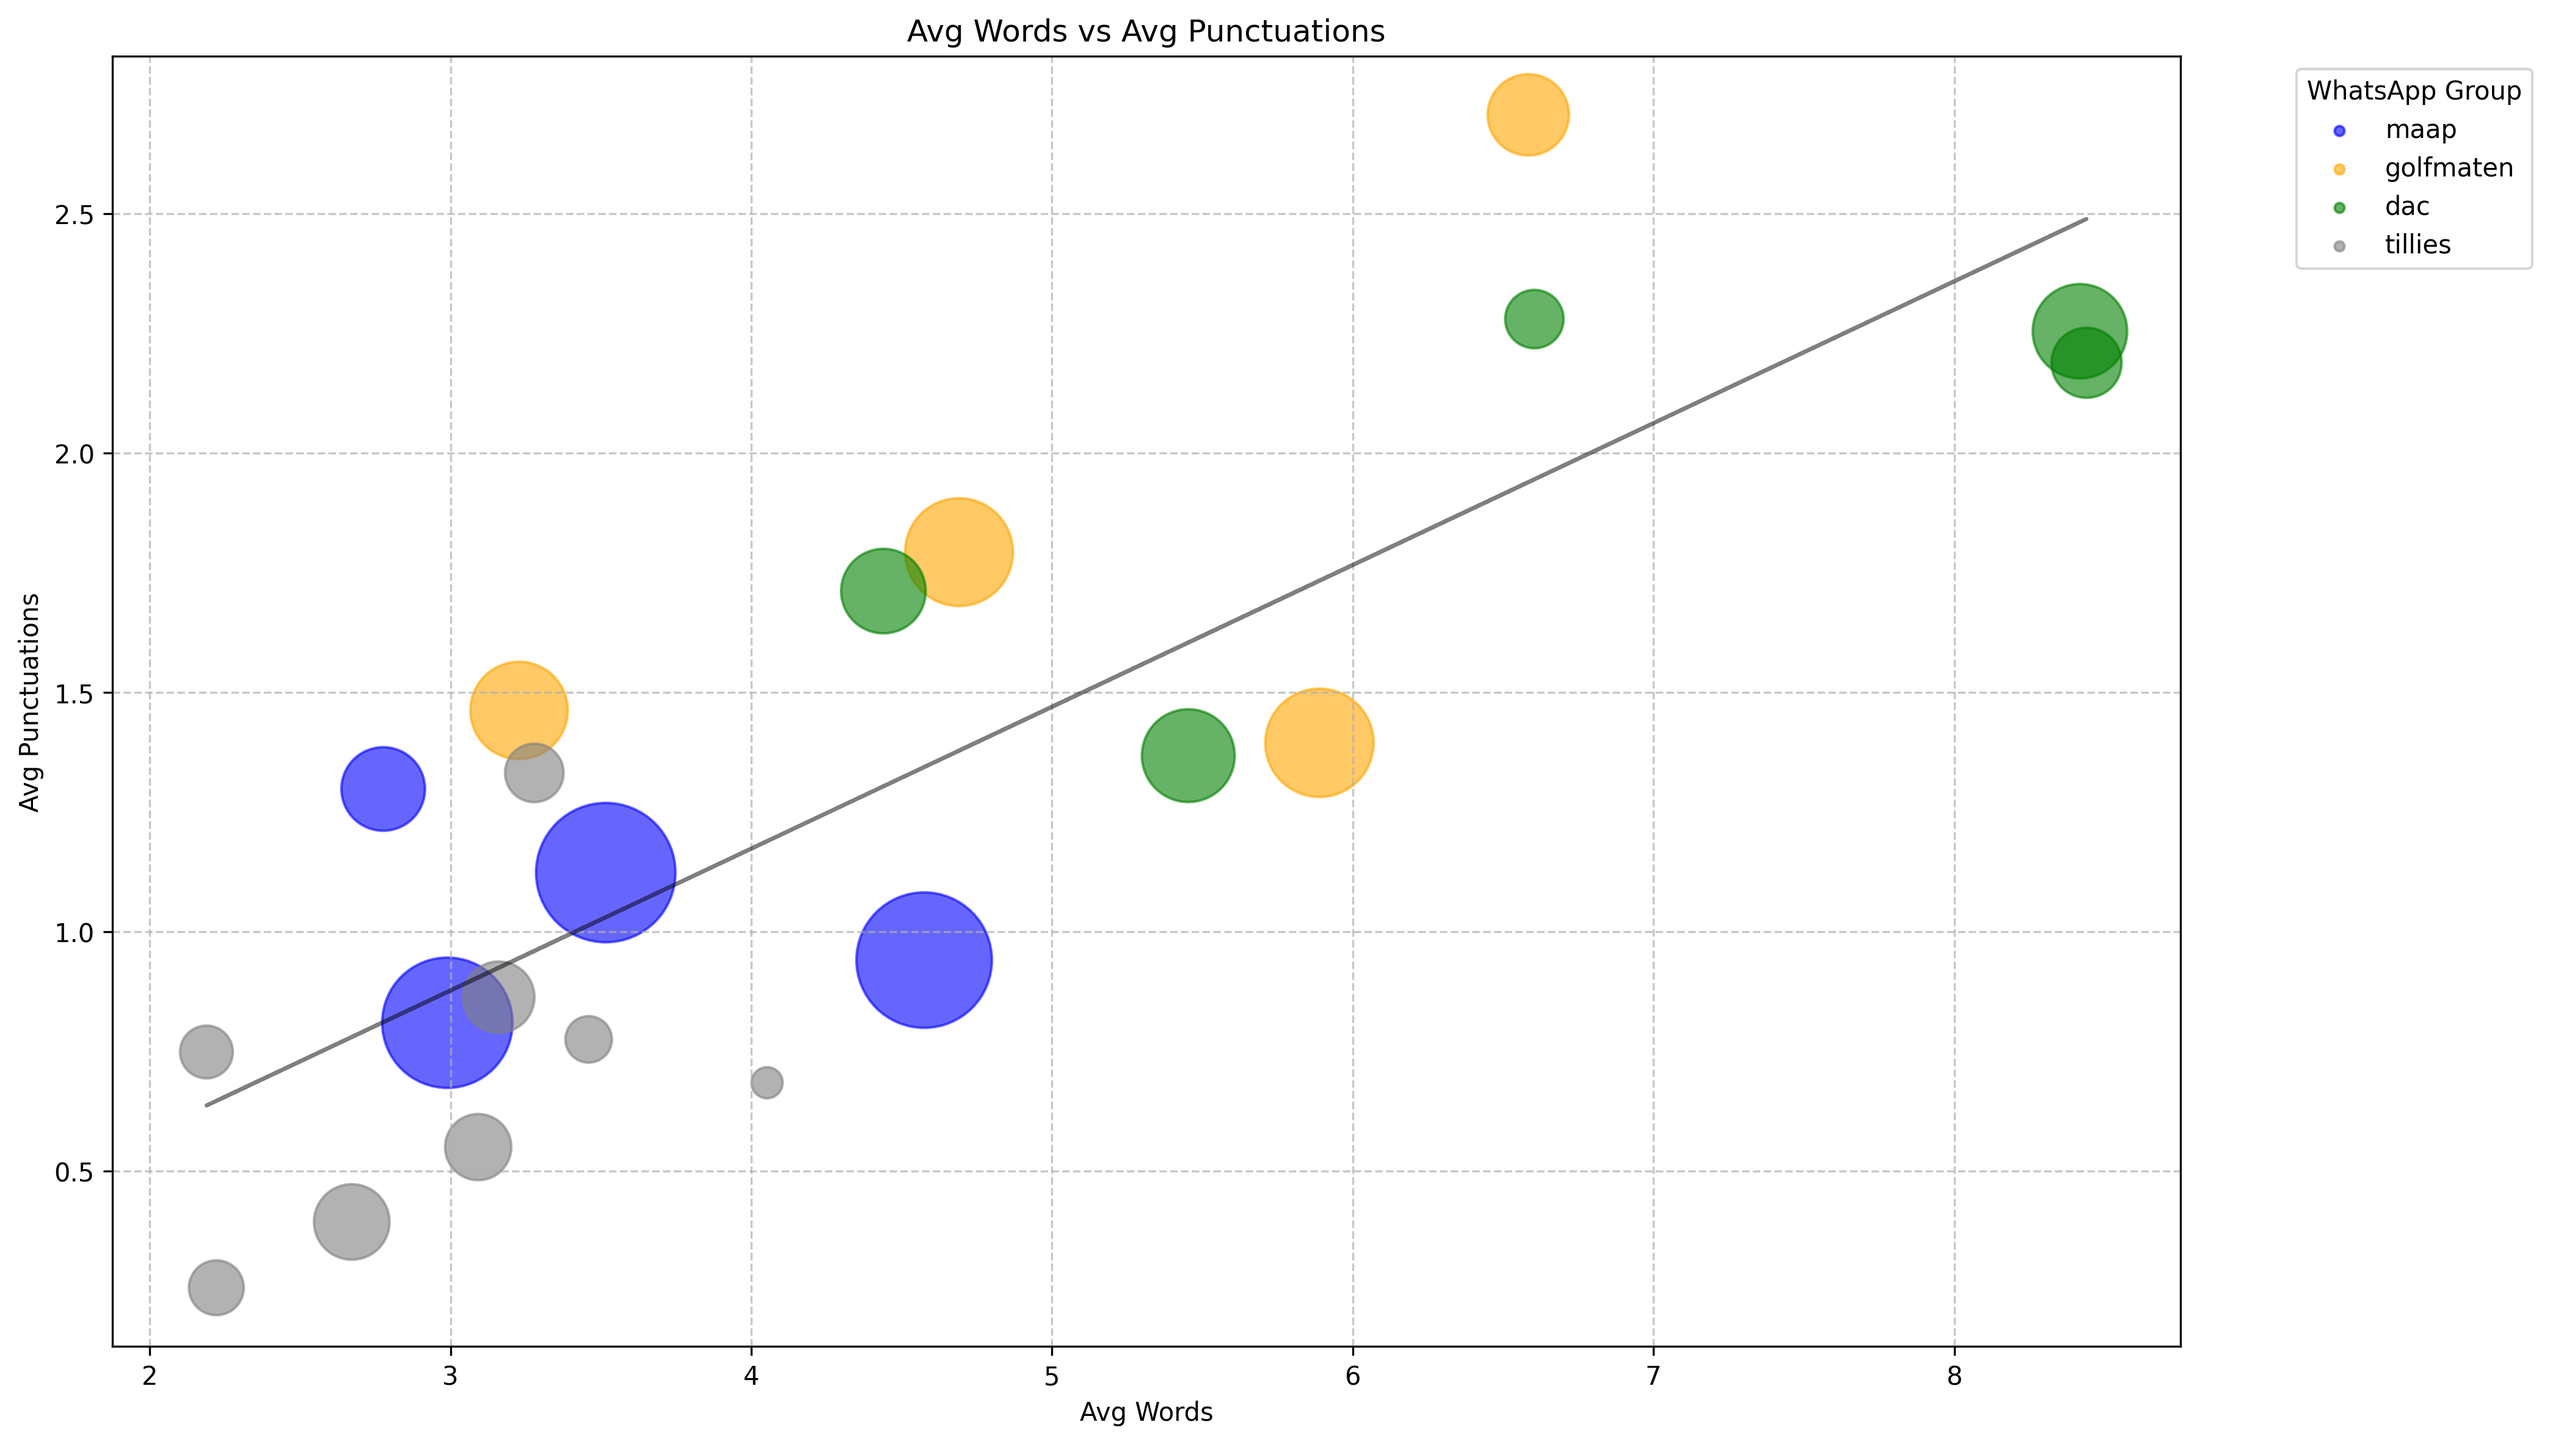
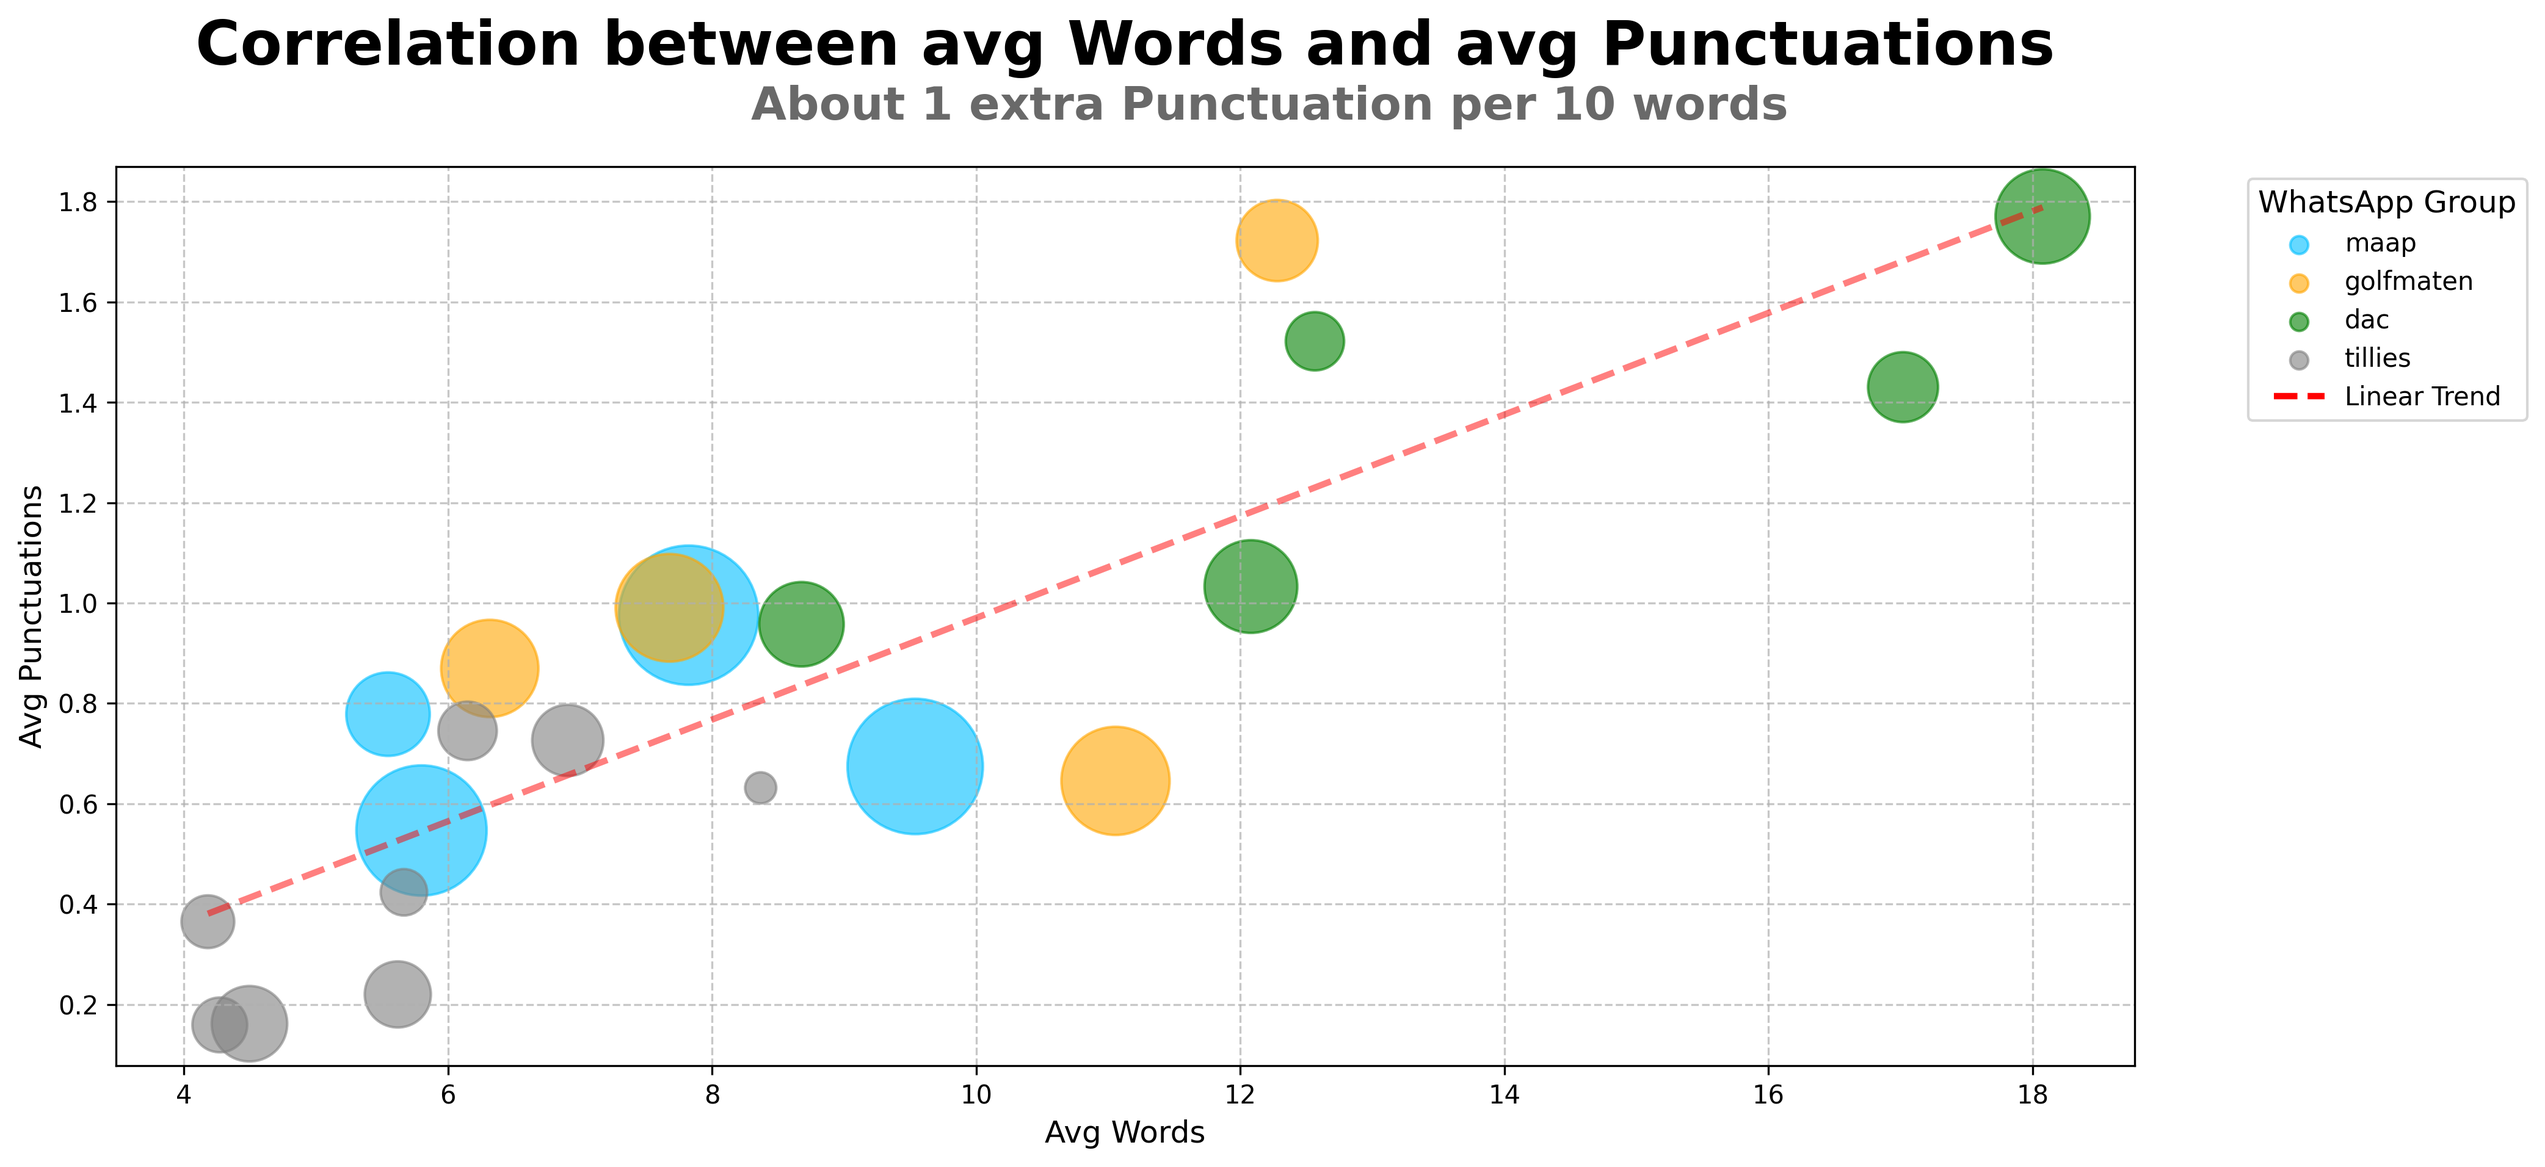
PLot Bubble completed!

diff --git a/src/plot_manager.py b/src/plot_manager.py
@@ -20,6 +20,7 @@ import warnings
 import itertools
 import numpy as np
 import matplotlib.pyplot as plt
+import matplotlib.lines
 import matplotlib.patches as patches
 import seaborn as sns
 import pandas as pd
@@ -135,22 +136,34 @@ class ArcPlotSettings(PlotSettings):
     title_template: str = "Author Interactions in {group}"
 
 
-# === 5. Bubble Plot Settings (Script5) ===
 class BubblePlotSettings(PlotSettings):
+    title: str = "Correlation between avg Words and avg Punctuations"
+    subtitle: str = "About 1 extra Punctuation per 10 words"
     bubble_alpha: float = 0.6
     min_bubble_size: int = 50
     max_bubble_size: int = 1000
-    trendline_color: str = "black"
+    trendline_color: str = "red"
+    trendline_style: str = "--"
+    trendline_width: float = 2.5
     trendline_alpha: float = 0.5
-    legend_scale_factor: float = 0.3
+    legend_scale_factor: float = 1.0
     group_colors: dict[str, str] = Field(
         default_factory=lambda: {
-            Groups.MAAP: "blue",
+            Groups.MAAP: "deepskyblue",
             Groups.GOLFMATEN: "orange",
             Groups.DAC: "green",
             Groups.TILLIES: "gray",
         }
     )
+    title_fontsize: int = 24
+    title_fontweight: str = "bold"
+    title_pad: float = 40
+    title_ha: str = "center"
+
+    subtitle_fontsize: int = 18
+    subtitle_fontweight: str = "bold"
+    subtitle_color: str = "dimgray"
+    subtitle_ha: str = "center"
 
 
 # === Plot Manager Class ===
@@ -349,7 +362,7 @@ class PlotManager:
             ax.set_xlabel("WhatsApp Groups and participating Authors", fontsize=12)
 
             ax.set_xticks(x_pos)
-            ax.set_xticklabels(author_labels, rotation=45, ha="right", fontsize=10)
+            ax.set_xticklabels(author_labels, rotation=45, ha="right", fontsize=12)
 
             # Build legend
             legend_patches = [
@@ -481,7 +494,7 @@ class PlotManager:
             # X-axis
             key_dates = {11: "March 15th", 18: "May 1st", 36: "September 1st"}
             ax.set_xticks(sorted(key_dates.keys()))
-            ax.set_xticklabels([key_dates[w] for w in sorted(key_dates)], fontsize=10, ha="center")
+            ax.set_xticklabels([key_dates[w] for w in sorted(key_dates)], fontsize=12, ha="center")
             ax.set_xlabel("Time over Year", fontsize=12, labelpad=10)
 
             # Title and subtitle
@@ -809,6 +822,7 @@ class PlotManager:
             logger.exception(f"Arc diagram failed: {e}")
             return None
 
+
     # === 5. Bubble (Script5) ===
     def build_visual_relationships_bubble(
         self,
@@ -826,6 +840,10 @@ class PlotManager:
             matplotlib Figure or None
         """
         try:
+            # Figure setup aligned with Categories
+            fig, ax = plt.subplots(figsize=(14, 6.5))  # Shorter canvas
+            plt.subplots_adjust(top=0.85)  # Axes end earlier → more room above
+
             df = data.feature_df
             required = {
                 Columns.WHATSAPP_GROUP.value,
@@ -838,7 +856,6 @@ class PlotManager:
                 logger.error("Bubble plot missing required columns")
                 return None
 
-            fig, ax = plt.subplots(figsize=settings.figsize)
             msg = df[Columns.MESSAGE_COUNT.value]
             size_scale = (msg - msg.min()) / (msg.max() - msg.min()) if msg.max() != msg.min() else 1.0
             bubble_sizes = (settings.min_bubble_size + (settings.max_bubble_size - settings.min_bubble_size) * size_scale) * 3
@@ -857,22 +874,73 @@ class PlotManager:
                     label=grp.value,
                 )
 
-            x = df[Columns.AVG_WORDS.value]
-            y = df[Columns.AVG_PUNCT.value]
+            x = df[Columns.AVG_WORDS.value].values  # Convert to numpy for sorting
+            y = df[Columns.AVG_PUNCT.value].values
             coef = np.polyfit(x, y, 1)
             trend = np.poly1d(coef)
-            ax.plot(x, trend(x), color=settings.trendline_color, alpha=settings.trendline_alpha)
 
-            ax.set_title(settings.title or f"{Columns.AVG_WORDS.human} vs {Columns.AVG_PUNCT.human}")
-            ax.set_xlabel(settings.xlabel or Columns.AVG_WORDS.human)
-            ax.set_ylabel(settings.ylabel or Columns.AVG_PUNCT.human)
+            # Sort x for smooth straight line plot
+            sort_idx = np.argsort(x)
+            x_sorted = x[sort_idx]
+            y_trend = trend(x_sorted)
+            ax.plot(
+                x_sorted, y_trend,
+                color=settings.trendline_color,
+                linestyle=settings.trendline_style,
+                linewidth=settings.trendline_width,
+                alpha=settings.trendline_alpha,
+                label="Linear Trend"  # Add label for legend
+            )
 
+            # Title
+            ax.set_title(
+                settings.title,
+                fontsize=settings.title_fontsize,
+                fontweight=settings.title_fontweight,
+                pad=settings.title_pad,
+                ha=settings.title_ha,
+            )
+
+            if settings.subtitle:
+                fig.text(
+                    x=0.5,
+                    y=0.92,
+                    s=settings.subtitle,
+                    fontsize=settings.subtitle_fontsize,
+                    fontweight=settings.subtitle_fontweight,
+                    color=settings.subtitle_color,
+                    ha=settings.subtitle_ha,
+                    va="top",
+                    transform=fig.transFigure
+                )
+
+            ax.set_xlabel(settings.xlabel or Columns.AVG_WORDS.human, fontsize=12)
+            ax.set_ylabel(settings.ylabel or Columns.AVG_PUNCT.human, fontsize=12)
+
+            # Legend handles for groups
             legend_handles = [
                 plt.scatter([], [], s=settings.min_bubble_size * settings.legend_scale_factor,
                             c=col, alpha=settings.bubble_alpha, label=grp.value)
                 for grp, col in settings.group_colors.items()
             ]
-            ax.legend(handles=legend_handles, title="WhatsApp Group", bbox_to_anchor=(1.05, 1), loc="upper left")
+
+            # Add trendline to legend (will be at bottom since appended last)
+            trend_patch = matplotlib.lines.Line2D(
+                [0], [0],
+                color=settings.trendline_color,
+                linestyle=settings.trendline_style,
+                linewidth=settings.trendline_width,
+                label="Linear Trend"
+            )
+            legend_handles.append(trend_patch)
+
+            ax.legend(
+                handles=legend_handles,
+                title="WhatsApp Group",
+                title_fontsize=12,
+                bbox_to_anchor=(1.05, 1),
+                loc="upper left"
+            )
             ax.grid(True, linestyle="--", alpha=0.7)
             plt.tight_layout()
             plt.show()

diff --git a/src/main.py b/src/main.py
@@ -11,7 +11,7 @@ from src.scripts.pipeline import Pipeline
 # Only include scripts you want to execute.
 # SCRIPT_6_DETAILS is only applicable if Script6 is included in SCRIPTS.
 # See script6.py for full configuration details.
-SCRIPTS = [1,2,3]
+SCRIPTS = [5]
 SCRIPT_6_DETAILS = ["tsne", True, True, False, True, 1]  # Only used if 6 in SCRIPTS | by_group, draw_ellipses, use_emb, hybrid, model_id
 
 
